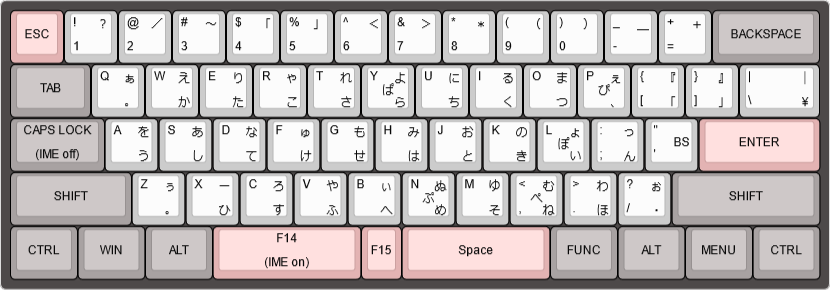
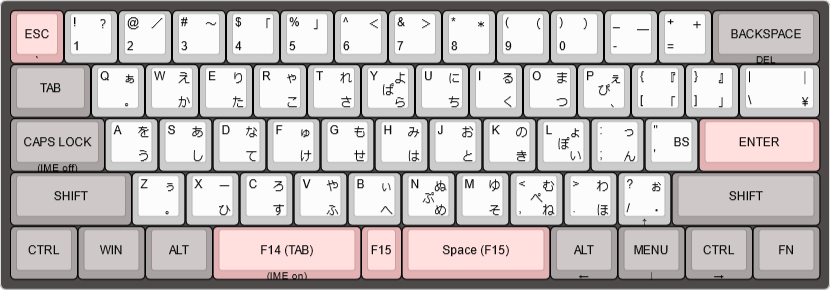
added long press on oya_key

diff --git a/keyboards/skyloong/gk61/pro_48/keymaps/nicola/nicola.c b/keyboards/skyloong/gk61/pro_48/keymaps/nicola/nicola.c
@@ -31,8 +31,8 @@ static bool is_nicola = false;      // 親指シフトがオンかオフか
 static uint8_t nicola_layer = 0;    // レイヤー番号
 static uint8_t n_modifier = 0;      // 押しているmodifierキーの数
 
-//#define TIMEOUT_THRESHOLD (150)
-#define TIMEOUT_THRESHOLD (200)
+#define TIMEOUT_THRESHOLD (150)         // 文字キー長押しの場合の自動送出
+#define TIMEOUT_OYA_THRESHOLD (400)     // 親指キー長押しの場合(Space → F15:変換キー)
 #define OVERLAP_THRESHOLD (20)
 
 typedef enum {
@@ -206,6 +206,14 @@ void nicola_o_type(void) {
         send_string(SS_TAP(X_F14));         // 左親指キーはWin MS-IME で無変換キー
     } else if(nicola_o_key == NG_SHFTR) {
         send_string(SS_TAP(X_SPACE));       // 右親指キーは単独打鍵で空白キー
+    }
+}
+
+void nicola_o_TO_type(void) {
+    if(nicola_o_key == NG_SHFTL) {
+        send_string(SS_TAP(X_TAB));         // タイムアウト時はTAB(変換候補選択)キー
+    } else if(nicola_o_key == NG_SHFTR) {
+        send_string(SS_TAP(X_F15));         // タイムアウト時はF15(変換)キー
     }
 }
 
@@ -436,7 +444,7 @@ bool process_nicola(uint16_t keycode, keyrecord_t *record) {
         nicola_o_time = curr_time;
         //koseki(2024.4.25)
         //keypress_timer_start(TIMEOUT_THRESHOLD * 16);
-        event_time = curr_time + TIMEOUT_THRESHOLD;
+        event_time = curr_time + TIMEOUT_OYA_THRESHOLD;
         //**
         cont_process = false;
 
@@ -536,7 +544,8 @@ void keypress_timer_expired(void) {
                 nicola_m_type();
                 break;
             case NICOLA_STATE_S3_O:
-                nicola_o_type();
+                //nicola_o_type();
+                nicola_o_TO_type();     // Time Out
                 break;
             case NICOLA_STATE_S4_MO:
                 nicola_om_type();

diff --git a/keyboards/skyloong/gk61/pro_48/keymaps/nicola/keymap.c b/keyboards/skyloong/gk61/pro_48/keymaps/nicola/keymap.c
@@ -60,9 +60,9 @@ const uint16_t PROGMEM keymaps[][MATRIX_ROWS][MATRIX_COLS] = {
 
 #if defined(ENCODER_MAP_ENABLE)
 const uint16_t PROGMEM encoder_map[][NUM_ENCODERS][NUM_DIRECTIONS] = {
-    [_QWERTY] = { ENCODER_CCW_CW(KC_LEFT, KC_RIGHT) },
-    [_NICOLA] = { ENCODER_CCW_CW(KC_LEFT, KC_RIGHT) },
-    [_FUNC] =   { ENCODER_CCW_CW(KC_DOWN, KC_UP) }
+    [_QWERTY] = { ENCODER_CCW_CW(KC_PGDN, KC_PGUP) },
+    [_NICOLA] = { ENCODER_CCW_CW(KC_PGDN, KC_PGUP) },
+    [_FUNC] =   { ENCODER_CCW_CW(KC_PGDN, KC_PGUP) }
 };
 #endif
 
